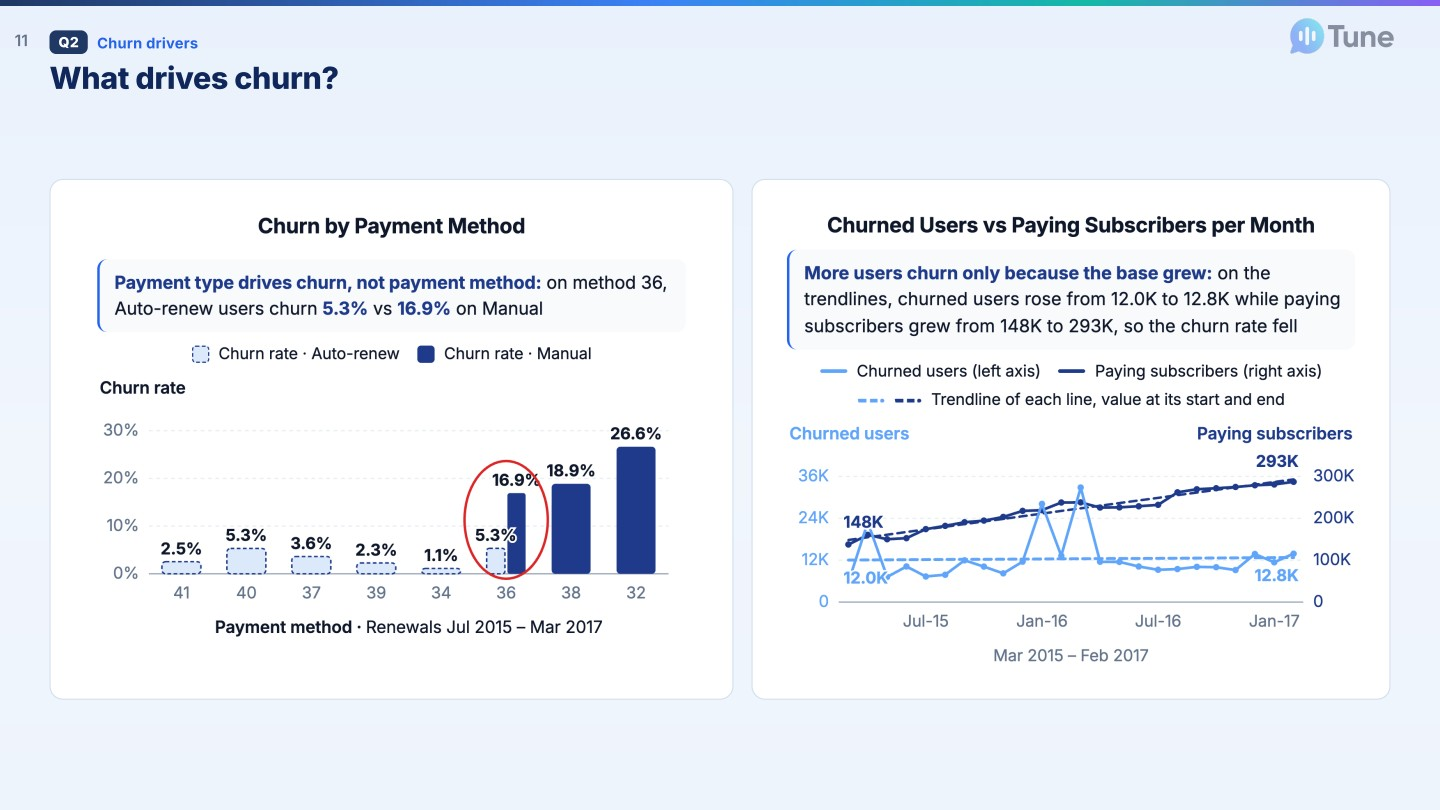
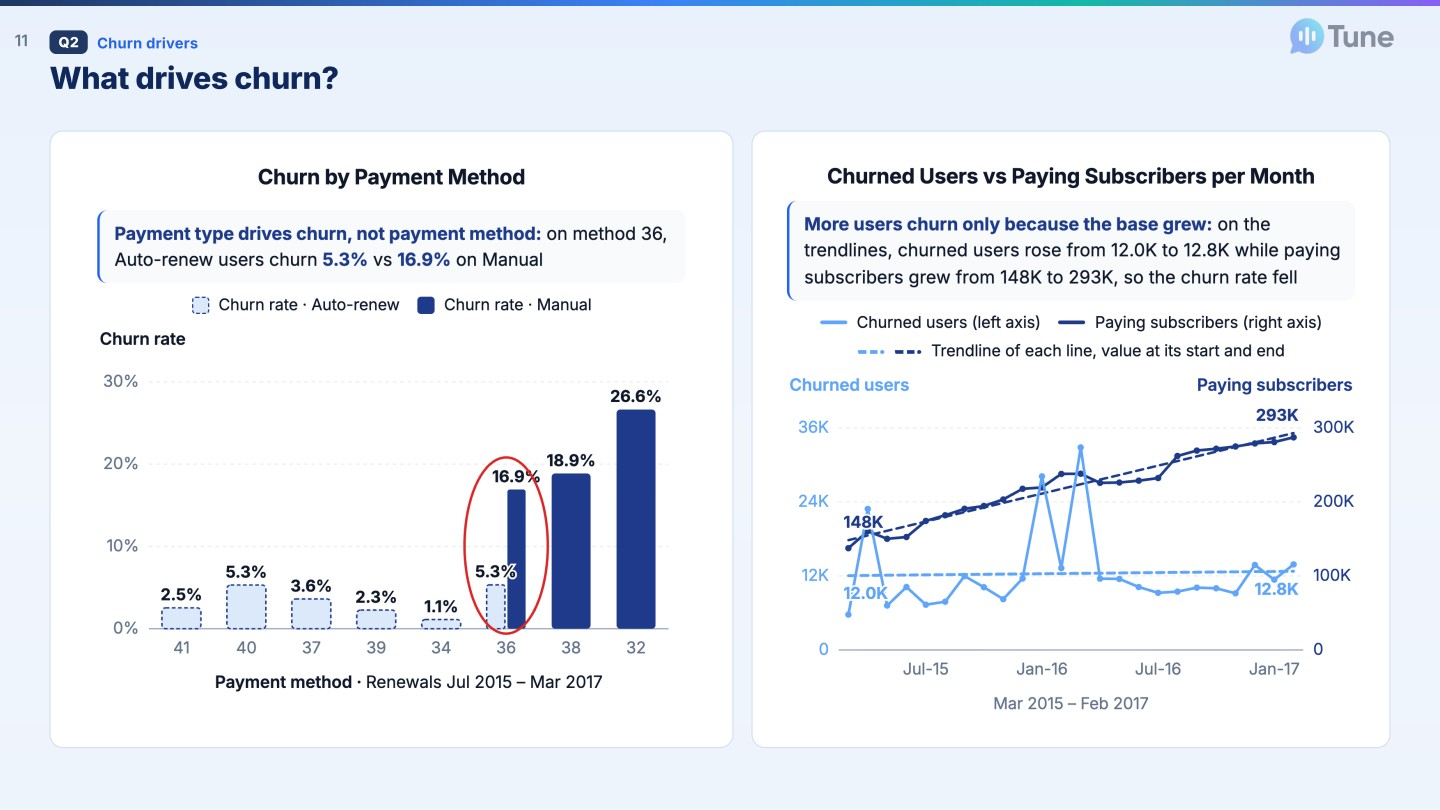
Deck slide 11: both cards fill the slide height with taller charts

diff --git a/index.html b/index.html
@@ -3726,7 +3726,7 @@ const ISSUES = { raw_users: "U1-U11: age 0 or out of range, gender missing, regi
   raw_churn_labels: "L4-L7: labels don't match a naive 'due in March' population" };
 
 // ---------------- tabs ----------------
-const DECKV = "1118s09r";  // change on every deck update so browsers load the new slide images, not a cached copy
+const DECKV = "1118s11t";  // change on every deck update so browsers load the new slide images, not a cached copy
 const GROUPS = {
   intro: [["overview", "Overview"]],
   p1: [["dq", "1a · Data quality"], ["lineage", "1b.1 · Clean layer & data model"], ["explorer", "1b.2 · Explorer & SQL"], ["churn", "1c · Churn check"]],
